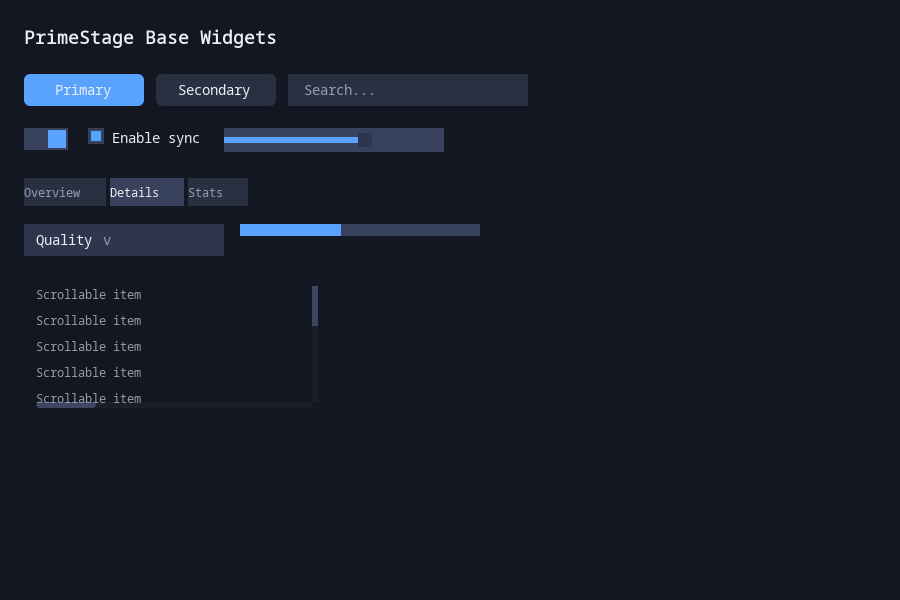
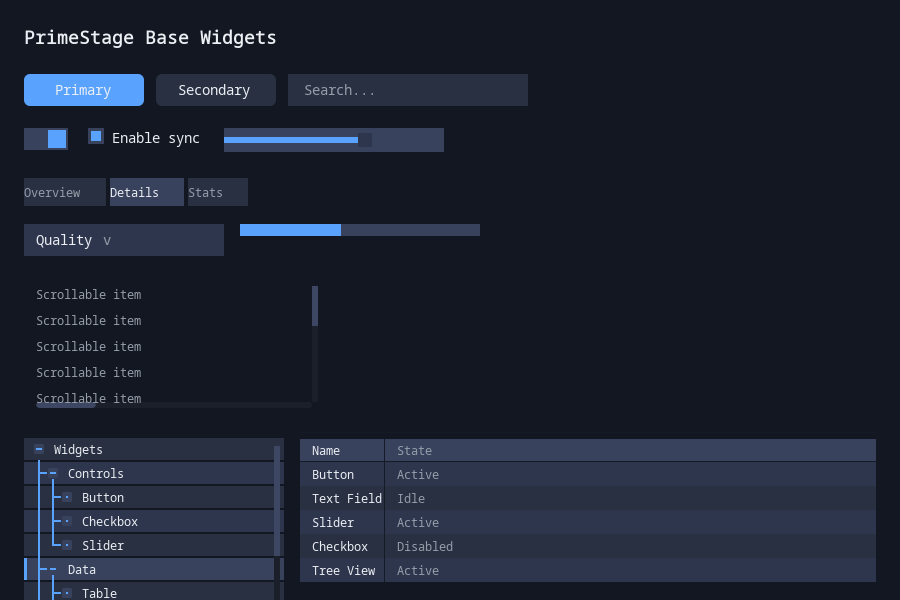
Auto size treeview scrollbars by default

Changed region(s): [[0.0, 0.72, 0.9956, 1.0]]

diff --git a/src/PrimeStage.cpp b/src/PrimeStage.cpp
@@ -411,6 +411,7 @@ void setScrollBarThumbPixels(ScrollBarSpec& spec,
                              float trackHeight,
                              float thumbHeight,
                              float thumbOffset) {
+  spec.autoThumb = false;
   float track = std::max(1.0f, trackHeight);
   float thumb = std::max(0.0f, std::min(thumbHeight, track));
   float maxOffset = std::max(1.0f, track - thumb);
@@ -1530,11 +1531,27 @@ UiNode UiNode::createTable(TableSpec const& spec) {
   size_t dividerCount = spec.columns.size() > 1 ? spec.columns.size() - 1 : 0;
   float dividerTotal = dividerWidth * static_cast<float>(dividerCount);
 
+  auto compute_auto_width = [&](size_t colIndex, TableColumn const& col) {
+    float paddingX = std::max(spec.headerPaddingX, spec.cellPaddingX);
+    float maxText = estimate_text_width(frame(), col.headerStyle, col.label);
+    for (auto const& row : spec.rows) {
+      if (colIndex < row.size()) {
+        std::string_view cell = row[colIndex];
+        float cellWidth = estimate_text_width(frame(), col.cellStyle, cell);
+        if (cellWidth > maxText) {
+          maxText = cellWidth;
+        }
+      }
+    }
+    return maxText + paddingX;
+  };
+
   std::vector<float> columnWidths;
   columnWidths.reserve(spec.columns.size());
   float fixedWidth = 0.0f;
   size_t autoCount = 0;
-  for (TableColumn const& col : spec.columns) {
+  for (size_t colIndex = 0; colIndex < spec.columns.size(); ++colIndex) {
+    TableColumn const& col = spec.columns[colIndex];
     if (col.width > 0.0f) {
       columnWidths.push_back(col.width);
       fixedWidth += col.width;
@@ -1550,6 +1567,13 @@ UiNode UiNode::createTable(TableSpec const& spec) {
     for (float& width : columnWidths) {
       if (width == 0.0f) {
         width = autoWidth;
+      }
+    }
+  }
+  if (autoCount > 0 && (availableWidth <= fixedWidth || tableWidth <= 0.0f)) {
+    for (size_t colIndex = 0; colIndex < columnWidths.size(); ++colIndex) {
+      if (columnWidths[colIndex] <= 0.0f) {
+        columnWidths[colIndex] = compute_auto_width(colIndex, spec.columns[colIndex]);
       }
     }
   }
@@ -2553,6 +2577,11 @@ UiNode UiNode::createTreeView(TreeViewSpec const& spec) {
   std::vector<int> depthStack;
   flatten_tree(spec.nodes, 0, depthStack, rows);
 
+  float rowsHeight = rows.empty()
+                         ? spec.rowHeight
+                         : static_cast<float>(rows.size()) * spec.rowHeight +
+                               static_cast<float>(rows.size() - 1) * spec.rowGap;
+
   std::vector<int> firstChild(rows.size(), -1);
   std::vector<int> lastChild(rows.size(), -1);
   for (size_t i = 0; i < rows.size(); ++i) {
@@ -2581,10 +2610,6 @@ UiNode UiNode::createTreeView(TreeViewSpec const& spec) {
       bounds.width = maxLabelWidth;
     }
     if (bounds.height <= 0.0f) {
-      float rowsHeight = rows.empty()
-                             ? spec.rowHeight
-                             : static_cast<float>(rows.size()) * spec.rowHeight +
-                                   static_cast<float>(rows.size() - 1) * spec.rowGap;
       bounds.height = spec.rowStartY + rowsHeight;
     }
   }
@@ -2826,13 +2851,25 @@ UiNode UiNode::createTreeView(TreeViewSpec const& spec) {
                      false,
                      spec.visible);
 
-    float thumbH = trackH * spec.scrollBar.thumbFraction;
+    float contentHeight = spec.rowStartY + rowsHeight;
+    float thumbFraction = spec.scrollBar.thumbFraction;
+    float thumbProgress = spec.scrollBar.thumbProgress;
+    if (spec.scrollBar.autoThumb) {
+      if (contentHeight > 0.0f && bounds.height > 0.0f) {
+        thumbFraction = std::clamp(bounds.height / contentHeight, 0.0f, 1.0f);
+      } else {
+        thumbFraction = 1.0f;
+      }
+      thumbProgress = std::clamp(thumbProgress, 0.0f, 1.0f);
+    }
+
+    float thumbH = trackH * thumbFraction;
     thumbH = std::max(thumbH, spec.scrollBar.minThumbHeight);
     if (thumbH > trackH) {
       thumbH = trackH;
     }
     float maxOffset = std::max(0.0f, trackH - thumbH);
-    float progress = std::clamp(spec.scrollBar.thumbProgress, 0.0f, 1.0f);
+    float progress = std::clamp(thumbProgress, 0.0f, 1.0f);
     float thumbY = trackY + maxOffset * progress;
     create_rect_node(frame(),
                      treeNode.nodeId(),

diff --git a/examples/primestage_widgets_demo.cpp b/examples/primestage_widgets_demo.cpp
@@ -165,6 +165,88 @@ int main(int argc, char** argv) {
     scrollContent.createLabel(item);
   }
 
+  StackSpec dataRow;
+  dataRow.size.stretchX = 1.0f;
+  dataRow.size.preferredHeight = 180.0f;
+  dataRow.gap = 16.0f;
+  UiNode dataRowNode = column.createHorizontalStack(dataRow);
+
+  TreeViewSpec treeSpec;
+  treeSpec.size.preferredWidth = 260.0f;
+  treeSpec.size.preferredHeight = 180.0f;
+  treeSpec.rowStartX = 10.0f;
+  treeSpec.rowStartY = 6.0f;
+  treeSpec.rowWidthInset = 18.0f;
+  treeSpec.rowHeight = 22.0f;
+  treeSpec.rowGap = 2.0f;
+  treeSpec.indent = 14.0f;
+  treeSpec.caretBaseX = 10.0f;
+  treeSpec.caretSize = 10.0f;
+  treeSpec.caretInset = 2.0f;
+  treeSpec.caretThickness = 2.0f;
+  treeSpec.caretMaskPad = 1.0f;
+  treeSpec.connectorThickness = 2.0f;
+  treeSpec.selectionAccentWidth = 3.0f;
+  treeSpec.rowStyle = Studio::rectToken(Studio::RectRole::PanelAlt);
+  treeSpec.rowAltStyle = Studio::rectToken(Studio::RectRole::Panel);
+  treeSpec.selectionStyle = Studio::rectToken(Studio::RectRole::PanelStrong);
+  treeSpec.selectionAccentStyle = Studio::rectToken(Studio::RectRole::Accent);
+  treeSpec.caretBackgroundStyle = Studio::rectToken(Studio::RectRole::PanelStrong);
+  treeSpec.caretLineStyle = Studio::rectToken(Studio::RectRole::Accent);
+  treeSpec.connectorStyle = Studio::rectToken(Studio::RectRole::Accent);
+  treeSpec.textStyle = Studio::textToken(Studio::TextRole::SmallBright);
+  treeSpec.selectedTextStyle = Studio::textToken(Studio::TextRole::SmallBright);
+  treeSpec.scrollBar.trackStyle = Studio::rectToken(Studio::RectRole::ScrollTrack);
+  treeSpec.scrollBar.thumbStyle = Studio::rectToken(Studio::RectRole::ScrollThumb);
+
+  TreeNode widgetsRoot{
+      "Widgets",
+      {
+          TreeNode{"Controls",
+                   {TreeNode{"Button"}, TreeNode{"Checkbox"}, TreeNode{"Slider"}},
+                   true,
+                   false},
+          TreeNode{"Data",
+                   {TreeNode{"Table"}, TreeNode{"TreeView"}},
+                   true,
+                   true},
+          TreeNode{"Containers",
+                   {TreeNode{"Panel"}, TreeNode{"ScrollView"}},
+                   true,
+                   false}
+      },
+      true,
+      false};
+
+  treeSpec.nodes = {widgetsRoot};
+  dataRowNode.createTreeView(treeSpec);
+
+  TableSpec tableSpec;
+  tableSpec.size.stretchX = 1.0f;
+  tableSpec.size.preferredHeight = 180.0f;
+  tableSpec.headerHeight = 22.0f;
+  tableSpec.rowHeight = 24.0f;
+  tableSpec.headerPaddingX = 12.0f;
+  tableSpec.cellPaddingX = 12.0f;
+  tableSpec.headerStyle = Studio::rectToken(Studio::RectRole::PanelStrong);
+  tableSpec.rowStyle = Studio::rectToken(Studio::RectRole::Panel);
+  tableSpec.rowAltStyle = Studio::rectToken(Studio::RectRole::PanelAlt);
+  tableSpec.dividerStyle = Studio::rectToken(Studio::RectRole::Divider);
+  tableSpec.columns = {
+      TableColumn{"Name", 0.0f, Studio::textToken(Studio::TextRole::SmallBright),
+                  Studio::textToken(Studio::TextRole::SmallBright)},
+      TableColumn{"State", 120.0f, Studio::textToken(Studio::TextRole::SmallMuted),
+                  Studio::textToken(Studio::TextRole::SmallMuted)}
+  };
+  tableSpec.rows = {
+      {"Button", "Active"},
+      {"Text Field", "Idle"},
+      {"Slider", "Active"},
+      {"Checkbox", "Disabled"},
+      {"Tree View", "Active"}
+  };
+  dataRowNode.createTable(tableSpec);
+
   RenderOptions options;
   options.clearColor = Rgba8{10, 12, 18, 255};
   renderFrameToPng(frame, outPath, options);

diff --git a/examples/primestage_render_demo.cpp b/examples/primestage_render_demo.cpp
@@ -158,11 +158,6 @@ int main(int argc, char** argv) {
                             StudioDefaults::PanelInset * 4.0f;
     treeSpec.base.size.preferredWidth = sidebarW - StudioDefaults::PanelInset * 2.0f;
     treeSpec.base.size.preferredHeight = std::max(0.0f, treePanelHeight);
-    float treeTrackH = std::max(0.0f, treePanelHeight - treeSpec.base.scrollBar.padding * 2.0f);
-    setScrollBarThumbPixels(treeSpec.base.scrollBar,
-                            treeTrackH,
-                            StudioDefaults::ScrollThumbHeight,
-                            StudioDefaults::ScrollThumbOffset - treeSpec.base.scrollBar.padding);
 
     Studio::TreeNode treeRoot{
         "Root",

diff --git a/include/PrimeStage/Ui.h b/include/PrimeStage/Ui.h
@@ -211,12 +211,13 @@ struct ScrollAxisSpec {
 
 struct ScrollBarSpec {
   bool enabled = true;
+  bool autoThumb = true;
   float inset = 10.0f;
   float padding = 8.0f;
   float width = 6.0f;
   float minThumbHeight = 16.0f;
   float thumbFraction = 0.18f;
-  float thumbProgress = 0.1f;
+  float thumbProgress = 0.0f;
   PrimeFrame::RectStyleToken trackStyle = 0;
   PrimeFrame::RectStyleToken thumbStyle = 0;
 };
